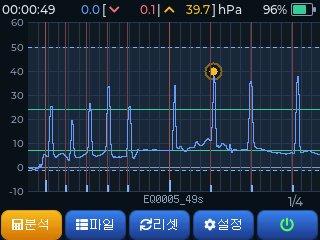
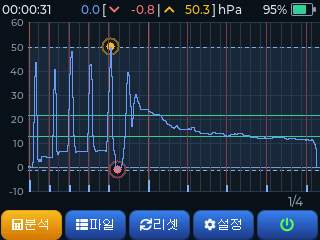
manual: 5.5 구간별 기법 분석 섹션 + 이미지 + v1.1e 표기
screen-segments.png(신규) / screen-interval-chart.png(프렌젤+마우스필 조합으로 교체)

diff --git a/manual.html b/manual.html
@@ -137,7 +137,7 @@
   <h1>사용자 매뉴얼 — 상세 사용설명서</h1>
   <div class="meta">
     프리다이빙 이퀄라이징 훈련 장비<br>
-    펌웨어 v1.1d 기준 · 최종 갱신 2026-07-19 · 빠른 시작은 별도 인쇄물 <a href="quickstart.html">quickstart</a> 참고
+    펌웨어 v1.1e 기준 · 최종 갱신 2026-07-20 · 빠른 시작은 별도 인쇄물 <a href="quickstart.html">quickstart</a> 참고
   </div>
 </header>
 
@@ -419,7 +419,19 @@
   </tbody>
 </table>
 
-<h3 id="s5_5">5.5 조언 메시지 활용</h3>
+<h3 id="s5_5">5.5 구간별 기법 분석 (EQ 인터벌)</h3>
+<p><strong>EQ 인터벌</strong>(<a href="#s7_1">7.1</a>)을 켜고 측정한 기록은, 인터벌 구간마다 <strong>기법을 따로 판정</strong>합니다.
+하강 훈련에서 흔히 하듯 <strong>"얕은 구간은 프렌젤 → 깊은 구간은 마우스필"</strong>처럼 구간별로 기법을 바꿔가며 훈련해도,
+전체를 하나로 뭉뚱그리지 않고 각 구간을 나눠 분석합니다.</p>
+<figure class="fig shot"><img src="assets/screen-segments.png" alt="구간별 기법 분석 화면 — 구간별 요약과 구간마다의 통계·조언"><figcaption>구간별 기법 요약 + 구간마다 통계·조언 (예: 1구간 프렌젤 / 2구간 마우스필)</figcaption></figure>
+<ul>
+  <li>분석 화면 맨 위에 <strong>구간별 기법 요약</strong>이 표시됩니다. (예: "1: 프렌젤 / 2~3: 마우스필")</li>
+  <li>이어서 <strong>구간마다 통계와 조언</strong>이 순서대로 나옵니다 — 전체 세션 분석(5.1~5.4)과 같은 내용을 구간 단위로 봅니다.</li>
+  <li>구간이 너무 짧으면(5초 미만 등) 그 구간은 "판정 불가"로 표시됩니다.</li>
+  <li>인터벌을 끄고 측정한 기록은 종전처럼 <strong>전체를 하나로</strong> 분석합니다.</li>
+</ul>
+
+<h3 id="s5_6">5.6 조언 메시지 활용</h3>
 <p>분석 화면 하단에는 패턴·품질에 맞춘 <strong>조언 문구</strong>가 표시됩니다.
 (예: "발살바 개입이 남아 있습니다. 배의 힘을 줄이고 혀로 압력을 전달하는 감각을 키워 보세요.")</p>
 <blockquote class="warn">⚠️ 이 분석과 조언은 <strong>측정된 압력 패턴에 기반한 참고용</strong>입니다.